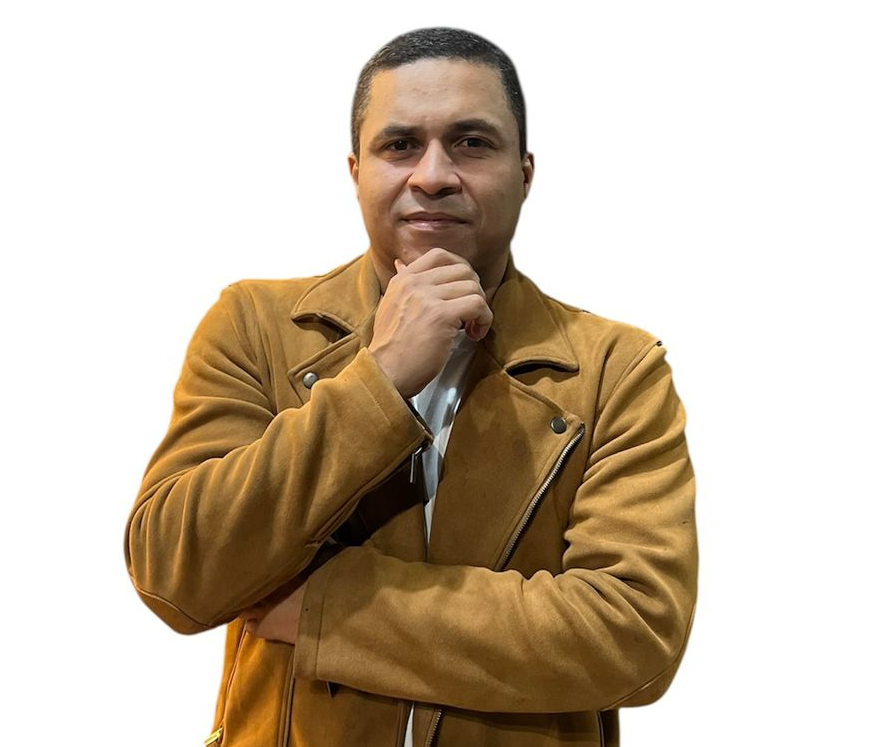
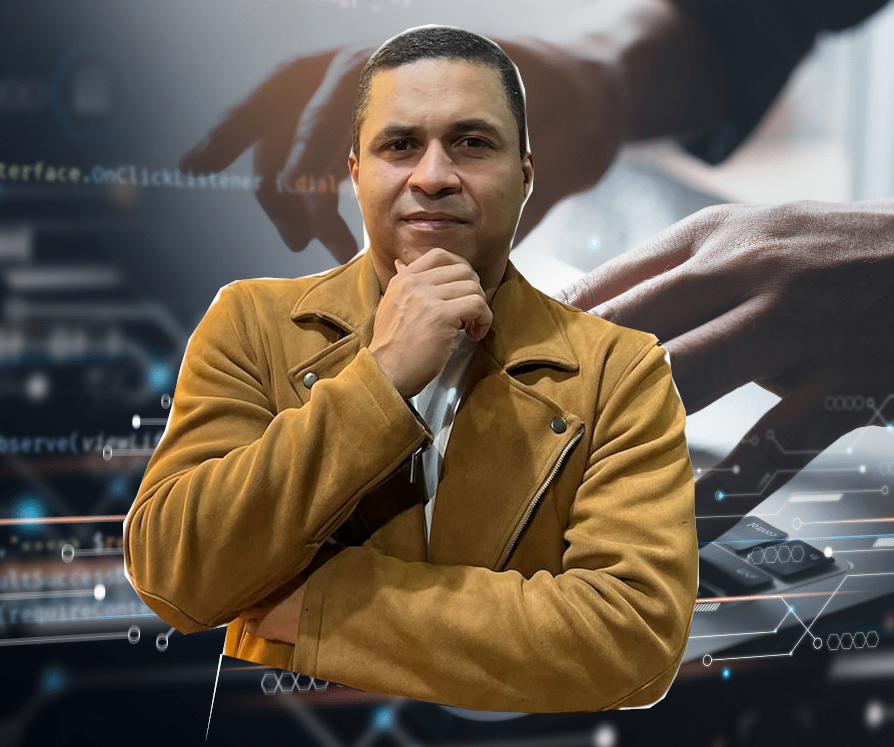
Foto do perfil alterada.
Foto do perfil alterada comm sucesso.

diff --git a/src/assets/components/AboutMe.jsx b/src/assets/components/AboutMe.jsx
@@ -18,7 +18,7 @@ export default function AboutMe() {
         {/* Imagem do rosto */}
         <img
           id="foto-rosto"
-          src="/imagens/para_port6.jpg" // Caminho CORRETO para a pasta public
+          src="/imagens/para_port5.png" // Caminho CORRETO para a pasta public
           alt="Foto de Flávio"
           className="hover:scale-130 duration-700 w-80 h-60 object-cover rounded-full shadow-lg mb-8 border-0 border-white dark:border-gray-800"
         />

diff --git a/index.html b/index.html
@@ -2,6 +2,7 @@
 <html lang="pt-br">
   <head>
     <meta charset="UTF-8" />
+    <img src="public/imagens/para_port5.png" alt="Imagem editada">
     <meta name="viewport" content="width=device-width, initial-scale=1.0" />
     <meta name="description" content="Crie seu site com design responsivo otimizado para dispositivos móveis e desktops, além de facilitadores de buscas no Google." />
     <link href="/src/index.css" rel="stylesheet">
